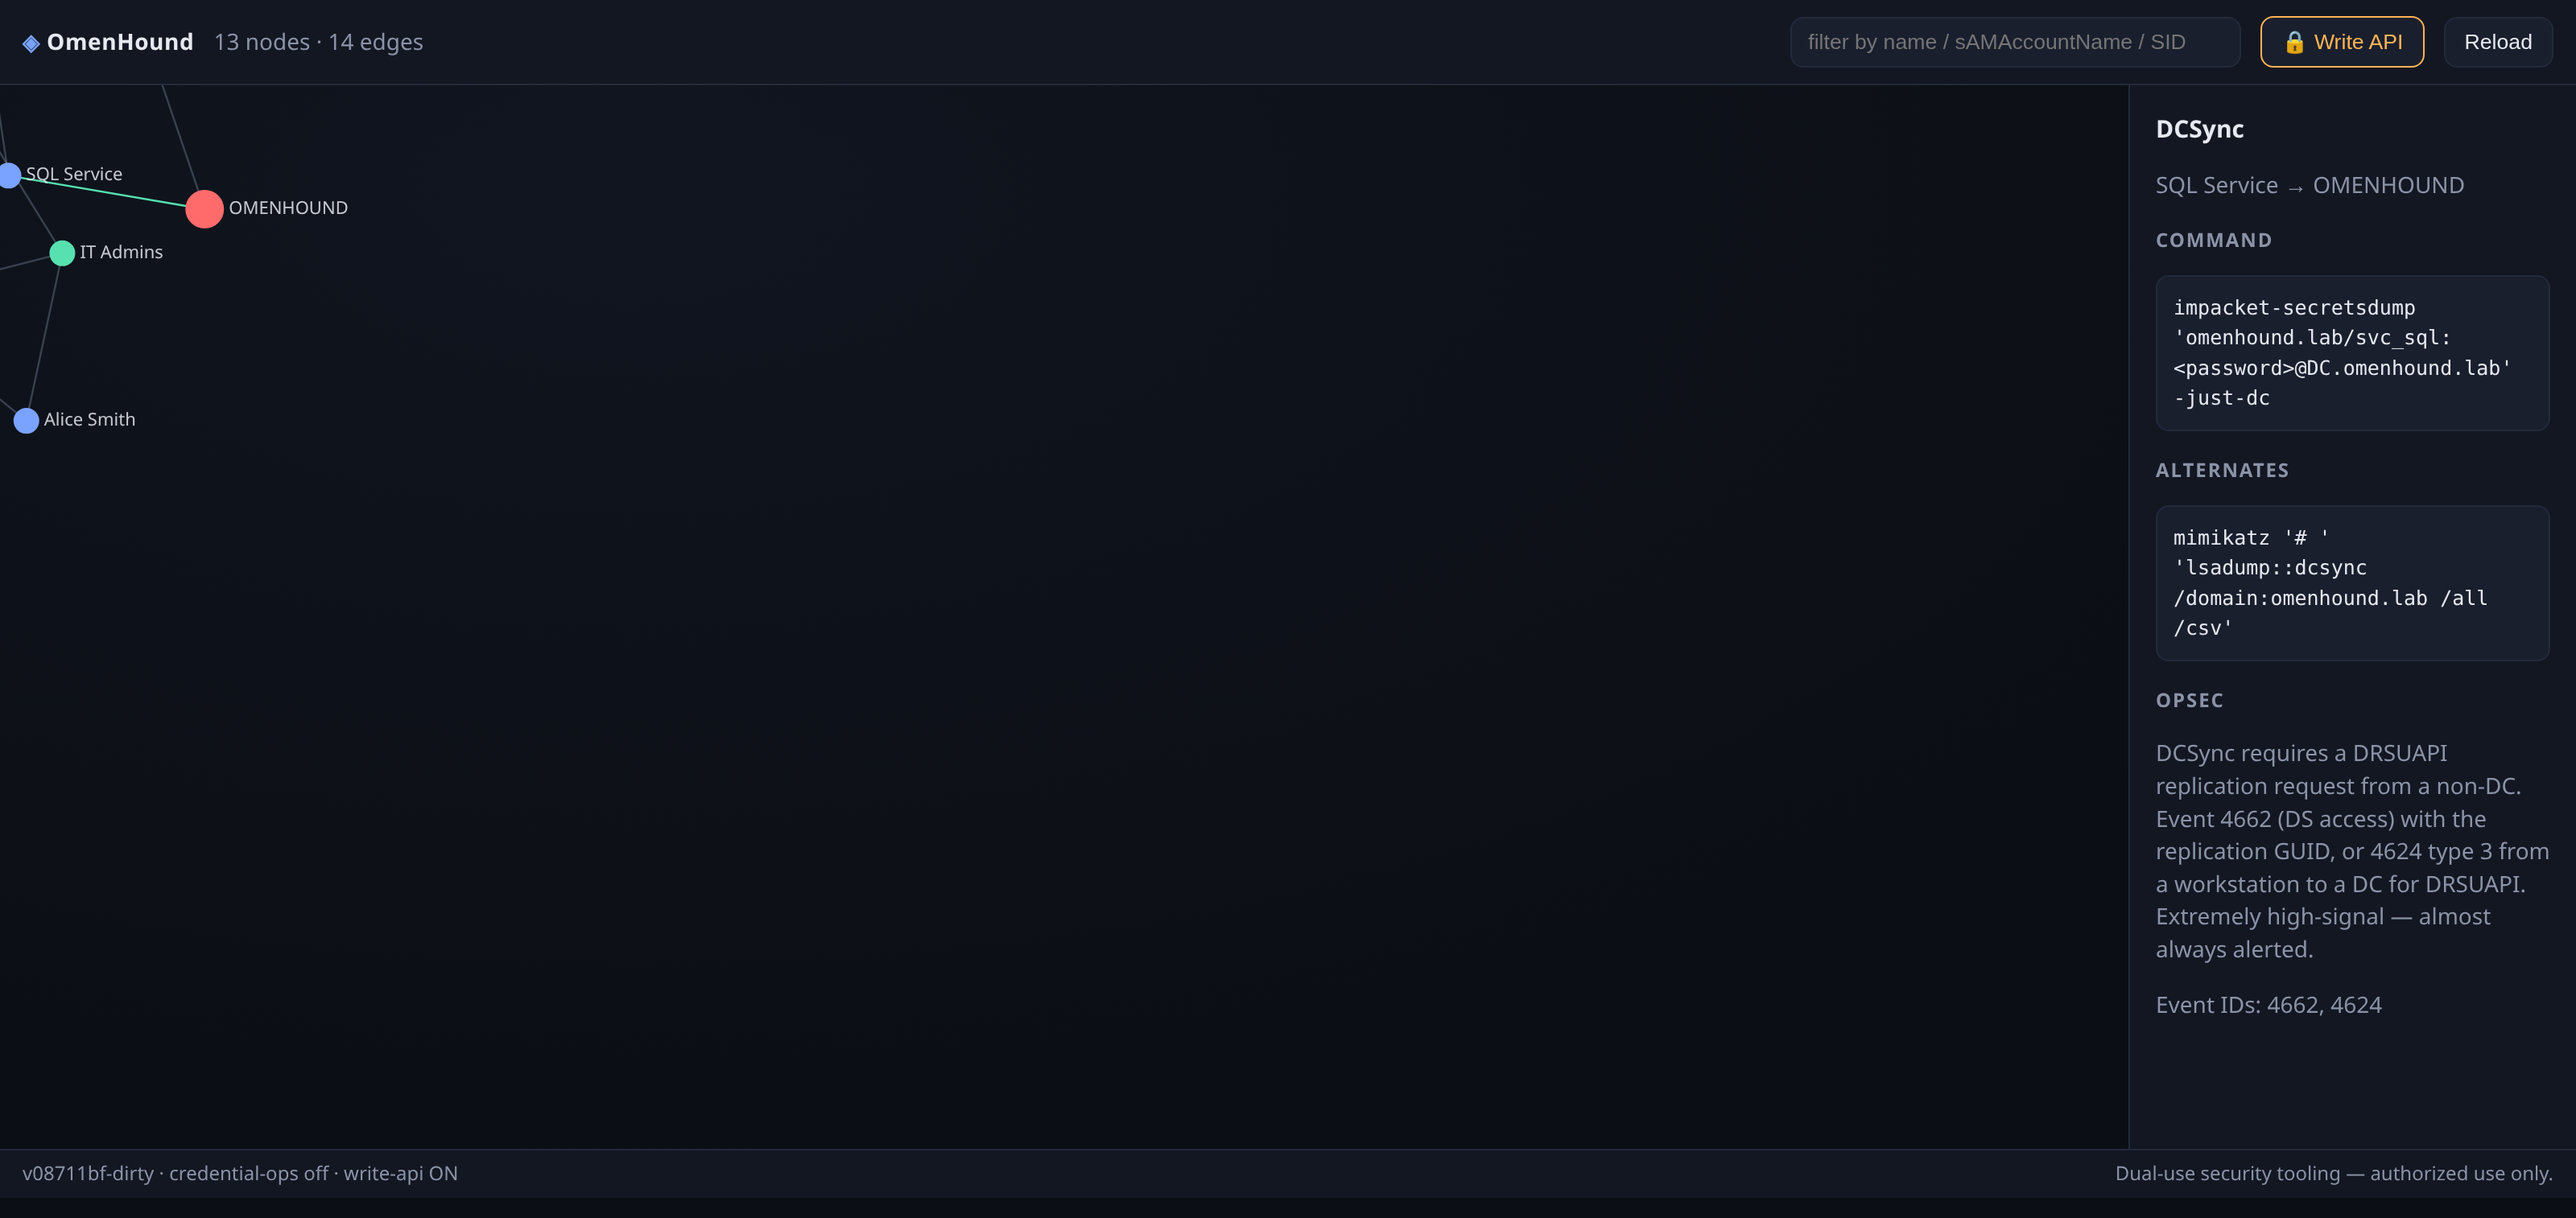
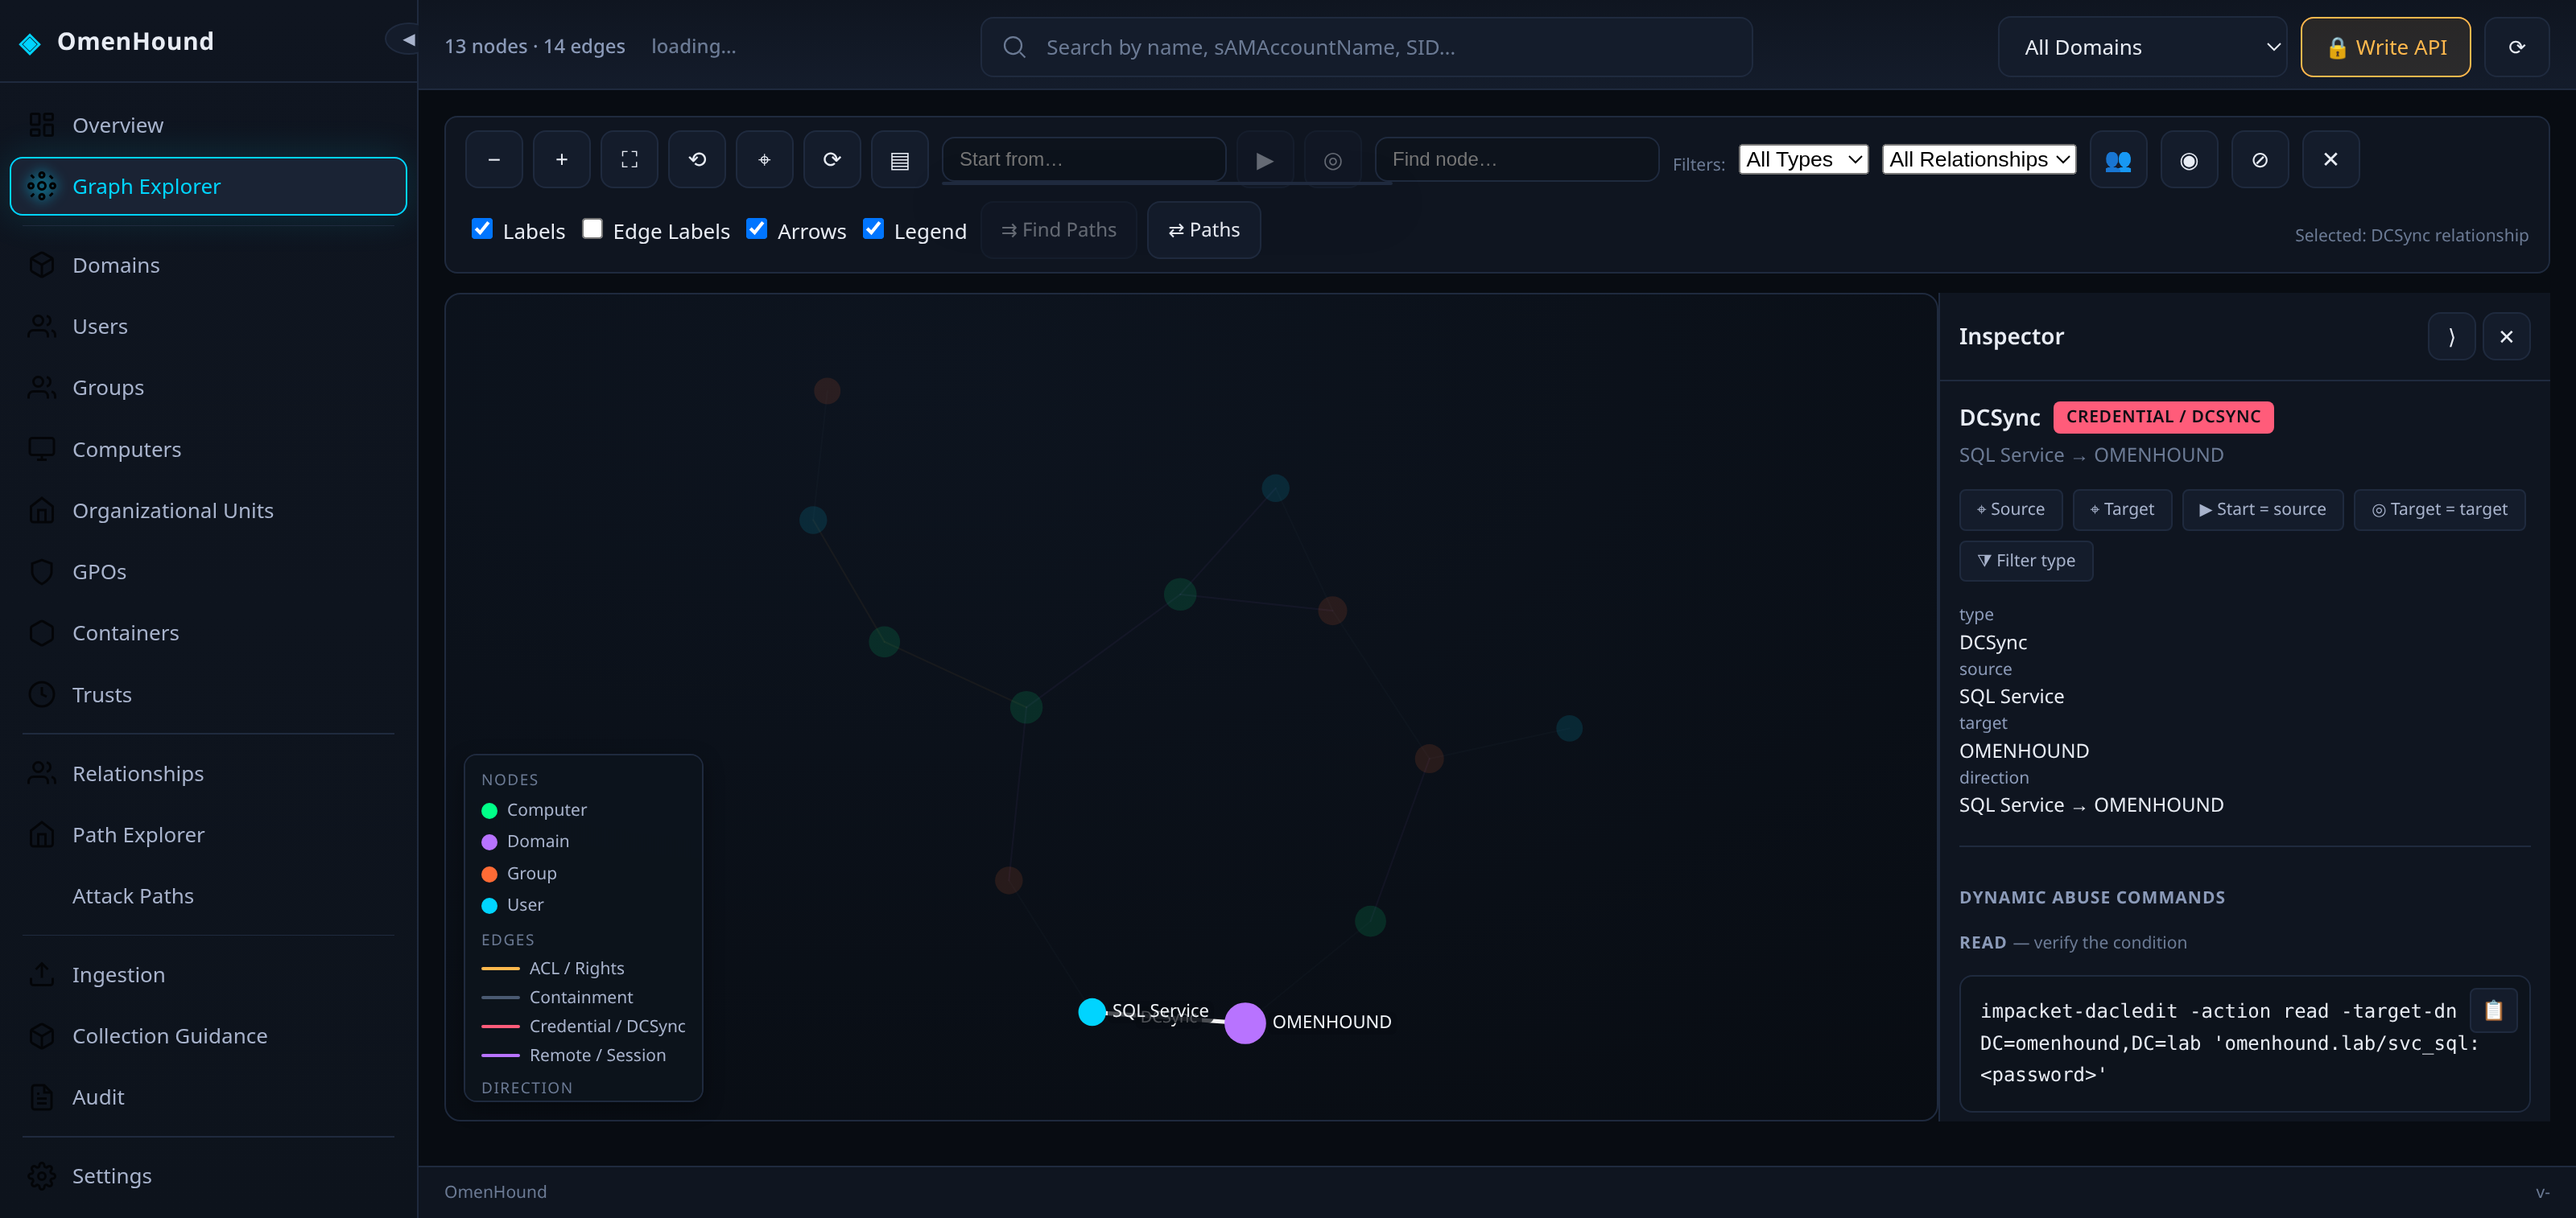
docs(readme): refresh web UI screenshots to show the technique library and Read/Add panel

diff --git a/README.md b/README.md
@@ -116,9 +116,13 @@ bloodyAD --host DC.omenhound.lab -d omenhound.lab -u jdoe -p '<password>' set pa
 
 ## Screenshots
 
-| Attack-path graph | Dynamic abuse panel | Write-API auth gate |
+| Attack-path graph + technique library | Dynamic abuse panel (Read + Add) | Write-API auth gate |
 |---|---|---|
 | ![graph](wiki/img/webui-graph.png) | ![abuse](wiki/img/webui-abuse.png) | ![gate](wiki/img/webui-authgate.png) |
+
+The graph shot is the default view: the Inspector is empty, so it shows the grouped
+**technique library** (10 categories / 54 techniques). Clicking an edge opens the
+per-edge **Read + Add** panel with your graph's real values and a `/api/abuse` link.
 
 ---
 
